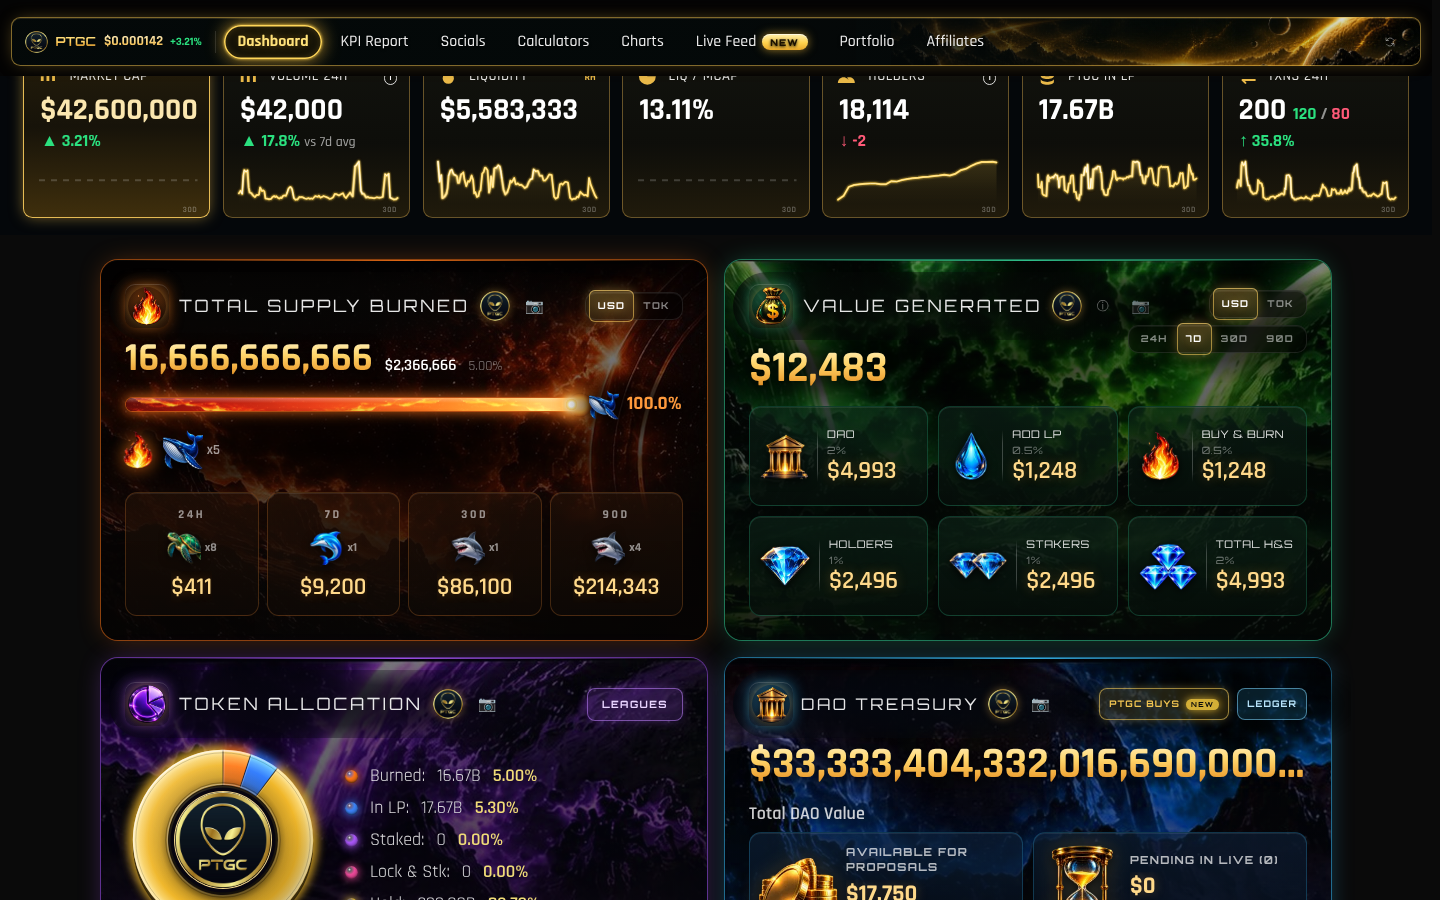
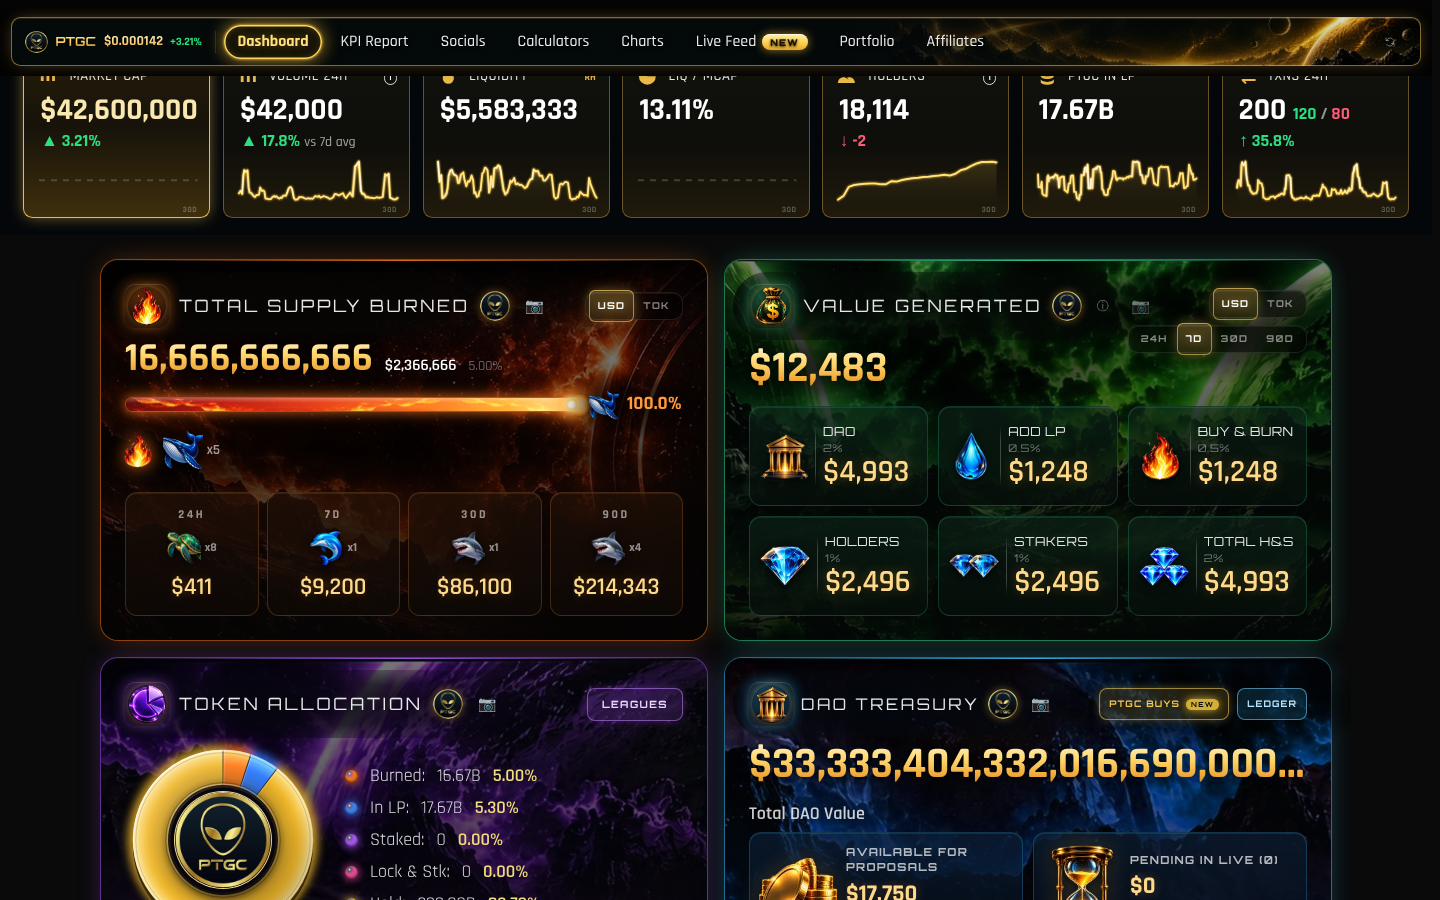
v2 Value Generated tiles: names 12.5px, figures 31px fitted (H2Val), harness probes; handover

diff --git a/index.html b/index.html
@@ -642,21 +642,21 @@
        big icon | thin divider | name / % / figure — a GRID over the classic markup. The label row becomes `display:contents`
        so the icon span lands in column 1 (both rows), the name in column 3 row 1 and the figure (the next sibling) in
        column 3 row 2; the divider is the tile's ::before in column 2. No bar, no % at the foot; the % is plain small text. */
-    .p2 .p2-vgt{position:relative;display:grid!important;grid-template-columns:minmax(44px,max-content) 1px minmax(0,1fr);grid-template-rows:auto auto;align-items:center;align-content:center;column-gap:9px;row-gap:3px;padding:10px 8px 10px 10px!important;min-height:100px}   /* the mock-up's tile height — without it the row shrinks to the Burn panel's and the tiles lose their air */
+    .p2 .p2-vgt{position:relative;display:grid!important;grid-template-columns:minmax(44px,max-content) 1px minmax(0,1fr);grid-template-rows:auto auto;align-items:center;align-content:center;column-gap:7px;row-gap:3px;padding:10px 6px 10px 10px!important;min-height:100px}   /* the mock-up's tile height — without it the row shrinks to the Burn panel's and the tiles lose their air */
     .p2 .p2-vgt::before{content:'';grid-column:2;grid-row:1/3;align-self:stretch;margin:2px 0;background:linear-gradient(180deg,rgba(255,255,255,0),rgba(255,255,255,.22) 25%,rgba(255,255,255,.22) 75%,rgba(255,255,255,0))}
     .p2 .p2-vgt>div:first-child{display:contents}
-    .p2 .p2-vgt>div:first-child>span:first-child{grid-column:1;grid-row:1/3;justify-self:center;max-width:62px;display:inline-flex;align-items:center;justify-content:center}   /* the icon (or the LP pair logo, or flame + token logo on UFO) */
-    .p2 .p2-vgt img.p2-vgi{max-height:48px;max-width:58px;filter:drop-shadow(0 2px 5px rgba(0,0,0,.85))}
+    .p2 .p2-vgt>div:first-child>span:first-child{grid-column:1;grid-row:1/3;justify-self:center;max-width:50px;display:inline-flex;align-items:center;justify-content:center}   /* the icon (or the LP pair logo, or flame + token logo on UFO) */
+    .p2 .p2-vgt img.p2-vgi{max-height:48px;max-width:50px;filter:drop-shadow(0 2px 5px rgba(0,0,0,.85))}
     .p2 .p2-vgt img.p2-vgi[src$="vg-diamond.webp"]{max-height:40px}
     .p2 .p2-vgt img.p2-vgi+img{width:22px!important;height:22px!important}   /* UFO's burn tiles: flame + token logo side by side */
     .p2 .p2-vgt img.p2-vgi:has(+img){max-height:38px}
-    .p2 .p2-vgt .p2-vgn{grid-column:3;grid-row:1;align-self:end;font-size:10.5px!important;letter-spacing:.06em;color:rgba(255,255,255,.88)!important;line-height:1.2;white-space:normal}   /* wraps to a second line only when the tile is too narrow for it (1024-1279 px, phones) */
-    .p2 .p2-vgt .p2-vgn .tabular-nums{font-size:10px;letter-spacing:.06em;color:rgba(255,255,255,.42);margin-top:3px}   /* the fee % — plain, quiet, no pill (Shaka) */
+    .p2 .p2-vgt .p2-vgn{grid-column:3;grid-row:1;align-self:end;font-size:12.5px!important;letter-spacing:.04em;color:rgba(255,255,255,.88)!important;line-height:1.2;white-space:normal}   /* 12.5 px .04em = 6 px of slack on "BUY & BURN" at 1440 and 1280 (Shaka: bigger, but never a second line); wraps only when the tile is too narrow (1024-1279 px, phones) */
+    .p2 .p2-vgt .p2-vgn .tabular-nums{font-size:10.5px;letter-spacing:.06em;color:rgba(255,255,255,.42);margin-top:3px}   /* the fee % — plain, quiet, no pill (Shaka) */
     .p2 .p2-vgt>div:first-child>span:not(:first-child):not(.p2-vgn){position:absolute;top:5px;right:8px}   /* "instant" / ⚠ badges in the tile's top-right corner, clear of the name */
-    .p2 .p2-vgt>div:not(:first-child){grid-column:3;grid-row:2;align-self:start;text-align:left!important;font-size:25px!important;line-height:1!important;overflow:visible;white-space:nowrap}   /* the figure */
+    .p2 .p2-vgt>div:not(:first-child){grid-column:3;grid-row:2;align-self:start;text-align:left!important;font-size:31px!important;line-height:1!important;overflow:visible;white-space:nowrap}   /* the figure — 31 px (Shaka: bigger); the USD figure sits in an H2Val under v2, so a long one shrinks to the column instead of overrunning */
     .p2 .p2-vgt>div.text-base{font-size:15px!important;line-height:1.2!important;white-space:normal;overflow:visible;text-overflow:clip}   /* the TOK line ("1.2M PTGC + 300 PLS") wraps instead of truncating */
-    @media(max-width:1279.98px){.p2 .p2-vgt{column-gap:7px;padding:8px 6px 8px 8px!important}.p2 .p2-vgt>div:first-child>span:first-child{max-width:48px}.p2 .p2-vgt img.p2-vgi{max-height:42px;max-width:48px}.p2 .p2-vgt>div:not(:first-child){font-size:20px!important}.p2 .p2-vgt .p2-vgn{font-size:9.5px!important;letter-spacing:.03em}}   /* 1024-1279: the panel is 476 px, a tile 135 — smaller icon and figure, tighter name */
-    @media(max-width:639.98px){.p2 .p2-vgt{column-gap:8px;padding:9px 6px 9px 9px!important}.p2 .p2-vgt .p2-vgn{font-size:10px!important;letter-spacing:.03em}.p2 .p2-vgt>div:not(:first-child){font-size:23px!important}}   /* phones: two tiles of 158 px */
+    @media(max-width:1279.98px){.p2 .p2-vgt{column-gap:7px;padding:8px 6px 8px 8px!important}.p2 .p2-vgt>div:first-child>span:first-child{max-width:48px}.p2 .p2-vgt img.p2-vgi{max-height:42px;max-width:48px}.p2 .p2-vgt>div:not(:first-child){font-size:24px!important}.p2 .p2-vgt .p2-vgn{font-size:9.5px!important;letter-spacing:.02em}}   /* 1024-1279: the panel is 476 px, a tile 135 — smaller icon and figure, tighter name */
+    @media(max-width:639.98px){.p2 .p2-vgt{column-gap:8px;padding:9px 6px 9px 9px!important}.p2 .p2-vgt .p2-vgn{font-size:10px!important;letter-spacing:.03em}.p2 .p2-vgt>div:not(:first-child){font-size:27px!important}}   /* phones: two tiles of 158 px */
     .p2[data-c="blue"] .p2-btn{font-family:'Orbitron',monospace;font-size:9px!important;letter-spacing:.12em;padding:7px 9px!important;border-radius:8px!important;gap:6px!important}
     .p2[data-c="blue"] .p2-btn .font-orbitron{font-size:7px!important;padding:2px 5px!important}
     .p2[data-c="blue"] h3{gap:8px!important;font-size:16px!important}
@@ -12383,7 +12383,7 @@
                                        title={qTip}>{partsLabel}</div>
                                 ):(
                                   <div className={`text-lg sm:text-2xl font-semibold text-right tabular-nums leading-none ${stuck?'text-red-300/70':theme.text} truncate ${hdrV2&&!stuck?'p2-gold':''}`}
-                                       title={qTip}>{fmtUSD(dollarVal)}</div>
+                                       title={qTip}>{hdrV2?<H2Val>{fmtUSD(dollarVal)}</H2Val>:fmtUSD(dollarVal)}</div>
                                 )}
                               </div>
                             );

diff --git a/tools/harness/probes/vg-tiles.js b/tools/harness/probes/vg-tiles.js
@@ -1,1 +1,1 @@
-(()=>{const p=document.querySelector('.p2[data-c="green"]');const r=p.getBoundingClientRect();const ts=[...p.querySelectorAll('.p2-vgt')].map(t=>{const b=t.getBoundingClientRect();const n=t.querySelector('.p2-vgn');const v=t.querySelector('.p2-vgn')?.closest('.p2-vgt').querySelector(':scope>div:not(:first-child)');return {w:Math.round(b.width),h:Math.round(b.height),name:n?.firstChild?.textContent.trim(),nameOverflow:n?n.scrollWidth-n.clientWidth:null,fig:v?.textContent.trim(),figOverflow:v?v.scrollWidth-v.clientWidth:null}});return JSON.stringify({panel:[Math.round(r.width),Math.round(r.height)],tiles:ts})})()
+(()=>{const p=document.querySelector('.p2[data-c="green"]');const r=p.getBoundingClientRect();const ts=[...p.querySelectorAll('.p2-vgt')].map(t=>{const b=t.getBoundingClientRect();const n=t.querySelector('.p2-vgn');const v=t.querySelector(':scope>div:not(:first-child)');const rg=document.createRange();rg.selectNodeContents(n.firstChild);const nw=rg.getBoundingClientRect().width;const vi=v.querySelector('div')||v;const rv=document.createRange();rv.selectNodeContents(vi);return {h:Math.round(b.height),name:n.firstChild.textContent.trim(),nameSlack:Math.round(n.clientWidth-nw),lines:Math.round(n.firstChild.parentElement.getBoundingClientRect().height),fig:v.textContent.trim(),figPx:parseFloat(getComputedStyle(vi).fontSize),figSlack:Math.round(v.clientWidth-rv.getBoundingClientRect().width)}});return JSON.stringify({panel:[Math.round(r.width),Math.round(r.height)],tiles:ts})})()

diff --git a/tools/harness/probes/vg-fit.js b/tools/harness/probes/vg-fit.js
@@ -1,0 +1,6 @@
+(()=>{const out=[];const st=document.createElement('style');document.head.appendChild(st);
+for(const [fs,ls,ico,gap,pr] of [[12,'.05em',52,8,8],[12,'.04em',52,7,6],[12.5,'.04em',50,7,6],[13,'.03em',50,7,6],[13,'.02em',48,7,6]]){
+ st.textContent=`.p2 .p2-vgt{column-gap:${gap}px!important;padding-right:${pr}px!important}.p2 .p2-vgt>div:first-child>span:first-child{max-width:${ico}px!important}.p2 .p2-vgt img.p2-vgi{max-width:${ico}px!important}.p2 .p2-vgt .p2-vgn{font-size:${fs}px!important;letter-spacing:${ls}!important;white-space:nowrap!important}`;
+ const r=[...document.querySelectorAll('.p2-vgt .p2-vgn')].map(n=>{const rg=document.createRange();rg.selectNodeContents(n.firstChild);return [n.firstChild.textContent.trim(),Math.round(rg.getBoundingClientRect().width*10)/10,n.clientWidth]});
+ out.push({fs,ls,ico,gap,pr,fits:r.every(x=>x[1]<=x[2]-1),r:r.map(x=>x.join(':')).join(' ')});}
+return JSON.stringify(out)})()

diff --git a/design/dashboard-panels/README.md b/design/dashboard-panels/README.md
@@ -15,7 +15,7 @@ build behind the same v2 preview switch as the header.
 | DAO Treasury | `mock-dao-v1.html` | **v1b** | Band left shifted gold → blue, saturated ("a little more blue"). Total DAO Value as the headline (his tick), four tiles with a big icon each in a lit blue square. The fourth tile still repeats the total, as in his mock — open. |
 | LP Pairs | `mock-lp-v1.html` | **v1** (2026-10-01, from `reference/shaka-lp-pairs-mockup.png`) | Shaka's mock-up, one round: the section header bigger (50 px logo in a ring, LP PAIRS 22 px, Volume / Liquidity in gold 24 px, glass All / RH Cores + Sort pills), then a panel frame (gold border, top hairline, `bg-burn` at 18 %, the cosmic-Home ground strip as the ember band along the bottom — green side for UFO) holding ONE table: gold rank circles, glowing logos, pair name in the token colour with "PulseX V1/V2" under it, Volume 24h, a 7-day volume curve (gold / green when the second half of the week out-volumes the first, red otherwise), Liquidity, 24h ▲/▼, buys / sells, Vol/Liq, ⓘ (details drawer) · DexScreener · DEXTools. Declined earlier and now IN: rank numbers, one-line rows, per-pair curves. Still OUT: the Buy/Sell column, the eye icon. Phones keep the stacked cards. `assets/ptgc-pairs-2026-09-30.json` is the real pair list the mock renders. Live round 2: type larger throughout; round 3: the action squares were "too loud" — `mock-lp-actions-v1.html` (four options), **C picked** (28 px dark glass squares, one soft tint per glyph) with a **line-graph glyph for DEXTools** ("a wrench means settings"); the DexScreener bars stay. |
 | PTGC Burned by UFO (UFO page) | `mock-ufoburn-v1.html` | **v1** | No mock-up from Shaka — derived from the Burn panel in sky blue on the treasury backdrop: three glass tiles (Burned / USD Value / % of PTGC in their colours), the flame bar in **UFO green** (`assets/flames-green.png`; Shaka: green, not blue), creatures, period boxes. |
-| Value Generated tiles | `mock-vg-tiles-v1.html` | **B, % as plain text** (2026-10-01 afternoon, from `reference/shaka-vg-tiles-mockup.png`) | Shaka's box layout: the icon big on the left (48 px; his new three-diamond cluster `reference/shaka-vg-diamonds3.png` → `logos/panels/vg-diamonds3-v2.webp` on Total H&S), a thin divider, then name / fee % / figure. No bar, no % at the foot. A = the % as a lit pill in his colours, B = every pill gold — "the bottom one, but not that loud, it doesn't need a pill" → B with the % as quiet 10 px text. Render `renders/vg-tiles-v1.png`; the build in index.html is the `.p2-vgt` block (a grid over the classic markup), `renders/vg-tiles-built-1440.png`. |
+| Value Generated tiles | `mock-vg-tiles-v1.html` | **B, % as plain text** (2026-10-01 afternoon, from `reference/shaka-vg-tiles-mockup.png`) | Shaka's box layout: the icon big on the left (48 px; his new three-diamond cluster `reference/shaka-vg-diamonds3.png` → `logos/panels/vg-diamonds3-v2.webp` on Total H&S), a thin divider, then name / fee % / figure. No bar, no % at the foot. A = the % as a lit pill in his colours, B = every pill gold — "the bottom one, but not that loud, it doesn't need a pill" → B with the % as quiet 10 px text. Render `renders/vg-tiles-v1.png`; the build in index.html is the `.p2-vgt` block (a grid over the classic markup), `renders/vg-tiles-built-1440.png`; live round 2: names 12.5 px, figures 31 px (`H2Val`). |
 | Panel toggles (USD / TOK, 24H–90D) | `mock-toggles-v1.html` | **open** (2026-10-01) | Shaka: today's gold-filled buttons "look so old school". Ten options A–J on the Value Generated backdrop, gold and UFO-green accents, at the real 36 px size: A lit glass · B underline · C segmented (frosted thumb) · D outline · E dot · F metallic pill (today's idea done properly) · G metallic text · H chips · I backlit key · J accent bar. Render `renders/toggles-v1.png`. The build is the `.p2 [role="group"]` block in index.html, markup unchanged. |
 
 ## Shared language (keep it when building)

diff --git a/handover/sessions/2026-10-01.md b/handover/sessions/2026-10-01.md
@@ -320,3 +320,17 @@ section's outerHTML for the byte-identical proof (md5 equal, `git stash` old bui
 `design/dashboard-panels/renders/vg-tiles-built-1440.png`.
 
 **Owed:** Shaka's live look (Mac first, then phone), both tokens, USD and TOK.
+
+### Round 16, part two — bigger names, bigger figures (Shaka, after the live look)
+
+"Make the titles of each box larger… don't make them too big where it forces them to wrap. The numbers bigger also."
+- Names 10.5 → **12.5 px** (.04em). Measured with `probes/vg-fit.js` (five size/tracking/icon-width candidates, the
+  name's text width vs its column at 1440 and 1280): 12.5 .04em leaves 6 px on "BUY & BURN" and "TOTAL H&S" with the
+  icon column at 50 px and gaps 7 (was 58 / 9); 13 px left 3 — too little for a Mac's font metrics. The % 10 → 10.5 px.
+- Figures 25 → **31 px**, and the USD figure now renders through `H2Val` under v2 (`{hdrV2?<H2Val>…</H2Val>:…}` inside
+  the classic div — the only new fork), so a figure wider than its column shrinks instead of overrunning: UFO's five-digit
+  tiles sit at 29.6–30.9 px, "$3,400" at the full 31. 1024–1279: figure 24 px (fits to ~20–23), names 9.5 px .02em
+  (single words like HOLDERS cannot wrap and were 2–3 px over at 10 px); phones: figure 27 px, names 10 px .03em.
+- `probes/vg-tiles.js` now reports per tile: name slack (px), figure font-size after the fit, figure slack. All ≥ 0 at
+  1440 / 1280 / 1024 / 390, PTGC and UFO; classic section hash unchanged (`dbf1d7a7…`).
+Render: `renders/vg-tiles-built-1440.png` (replaced). Owed: Shaka's live look.

diff --git a/handover/HANDOVER.md b/handover/HANDOVER.md
@@ -23,7 +23,8 @@ Update it at the end of every session.
 divider | name / quiet % / figure, no bars, no % at the foot, his new three-diamond cluster on Total H&S
 (`logos/panels/vg-diamonds3-v2.webp`). Mock-up A/B first (`design/dashboard-panels/mock-vg-tiles-v1.html`; "the bottom
 one, but not that loud — no pill"), then built as a CSS grid over the classic tile markup (`.p2-vgt`, v2 only, classic
-byte-identical). Harness 1440 / 1280 / 1100 / 1024 / 390, USD + TOK, PTGC + UFO. **Not pushed yet at the time of writing —
+byte-identical); part two after his live look: names 12.5 px (measured — 6 px of slack on "BUY & BURN", never a second
+line at ≥ 1280), figures 31 px through `H2Val` (shrink, never overrun). Harness 1440 / 1280 / 1100 / 1024 / 390, USD + TOK, PTGC + UFO. **Not pushed yet at the time of writing —
 Shaka's live look is owed**, then the rest of the pre-flip list (-5 below), then the sibling pages' headers (-6, same push
 as the flip). Round 16 in `sessions/2026-10-01.md`.
 
